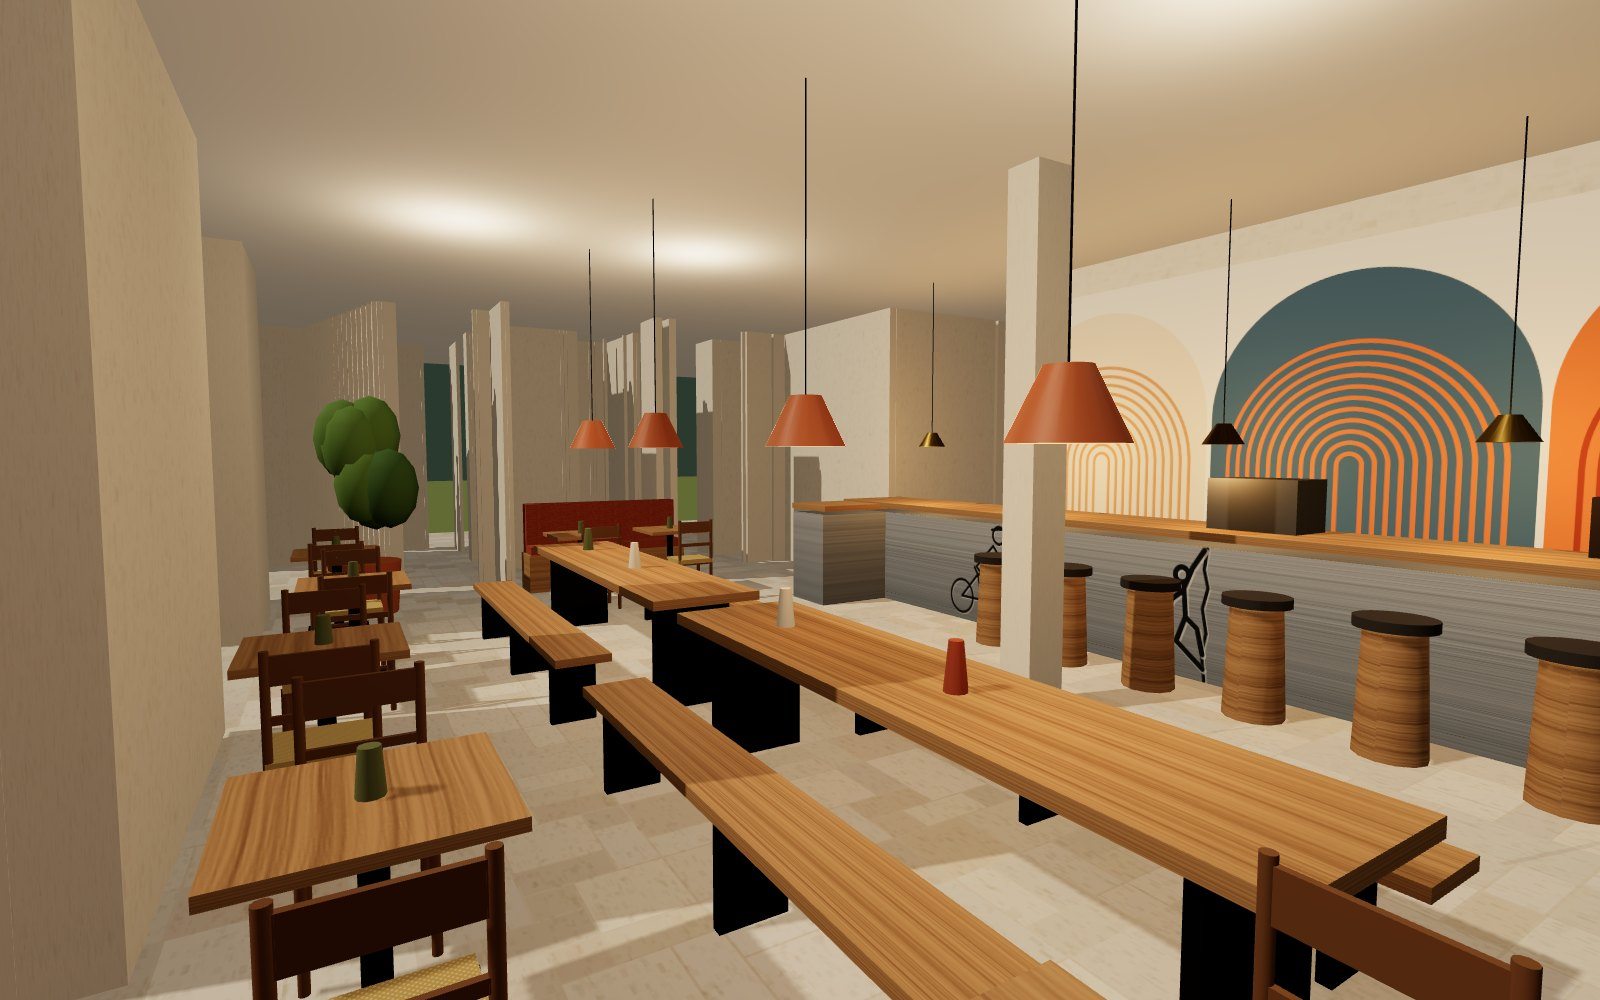
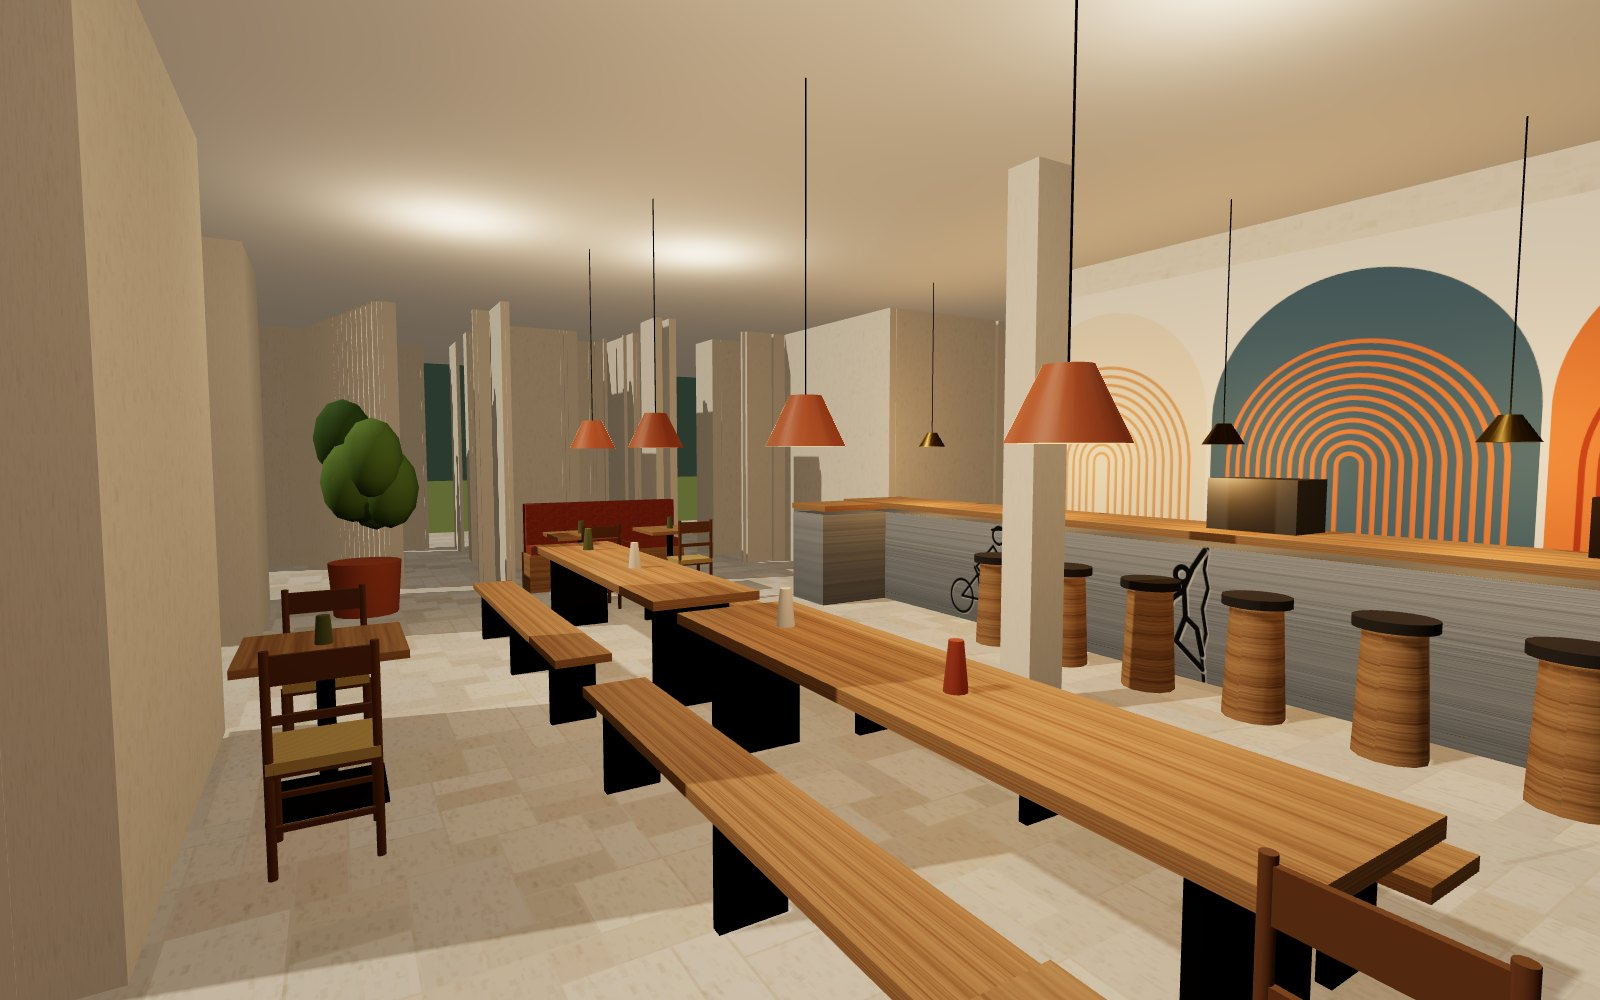
Sala: tolti i tavolini davanti ai passaggi verso la lounge, meno tavoli
Claude-Session: https://claude.ai/code/session_01QZXxqty357DcebAAL5Vpaf

Changed region(s): [[0.0938, 0.62, 0.5, 1.0], [0.1875, 0.403, 0.2812, 0.651]]

diff --git a/render-3d/sala-tavoli-misti/sorgente/pianoterra.js b/render-3d/sala-tavoli-misti/sorgente/pianoterra.js
@@ -385,7 +385,7 @@ else { box(P(210), P(1450), HS, HS + 0.06, P(840), P(1110), M('#e9e2d6', { trans
   const smallT = (px, pz, rotChairs) => { const x = P(px), z = P(pz); box(x - 0.35, x + 0.35, 0.72, 0.76, z - 0.35, z + 0.35, oakM); cyl(x, z, 0.04, 0, 0.72, ironM, 8); box(x - 0.25, x + 0.25, 0, 0.02, z - 0.25, z + 0.25, ironM);
     if (rotChairs) { straw(x - 0.6, z, Math.PI / 2, 0); straw(x + 0.6, z, -Math.PI / 2, 0); } else { straw(x, z - 0.6, 0, 0); }
     cyl(x, z, 0.04, 0.76, 0.9, M(tc[Math.floor(rnd() * 3)]), 10, 0.03); };
-  for (const [px, pz] of [[720, 780], [880, 772], [1040, 785], [1200, 775]]) smallT(px, pz, true);
+  for (const [px, pz] of [[1040, 785]]) smallT(px, pz, true);  // only one: the two openings to the lounge stay free
   // banquette along the east wall with two little tables
   const bq = boucle('#7f8f4e'); box(P(1388), P(1424), 0, 0.45, P(690), P(820), oakM); box(P(1390), P(1424), 0.45, 0.55, P(692), P(818), bq); box(P(1410), P(1424), 0.55, 1.05, P(692), P(818), bq);
   smallT(1340, 720, false); smallT(1340, 790, false);
@@ -408,7 +408,7 @@ const sun = new THREE.DirectionalLight('#fff0d8', AERIAL ? 2.4 : 1.4); sun.posit
 sun.castShadow = true; sun.shadow.mapSize.set(4096, 4096); Object.assign(sun.shadow.camera, { left: -16, right: 16, top: 16, bottom: -16, near: 1, far: 60 }); sun.shadow.bias = -0.0005; scene.add(sun);
 if (!AERIAL) for (const [x, z] of [[11, 7], [16, 7], [11, 9], [16, 9]]) { const l = new THREE.PointLight('#ffe2b8', 1.6, 0, 2); l.position.set(x, 3.0, z); scene.add(l); }
 scene.background = new THREE.Color('#2b3a2f');
-const CAMS = { panche: [[17.0, 1.6, 8.8], [11.5, 0.6, 7.0], 64], uscita: [[11.0, 1.7, 5.4], [18.2, 1.2, 7.2], 64], sala2: [[11.6, 1.75, 5.0], [15.5, 0.9, 9.8], 68], salatop: [[13.0, 11.5, 11.5], [12.8, 0, 6.8], 48], alto: [[9.3, 27, 17.5], [9.3, 0, 7.4], 42], bar: [[14.2, 1.6, 9.6], [14.2, 1.4, 3.6], 68], sala: [[17.6, 1.7, 9.9], [9.5, 1.1, 5.0], 66], portico: [[3.6, 1.6, 13.6], [14, 0.9, 12.6], 64] };
+const CAMS = { verso: [[11.5, 1.7, 5.2], [11.0, 1.0, 12.5], 70], sala2: [[11.6, 1.75, 5.0], [15.5, 0.9, 9.8], 68], salatop: [[13.0, 11.5, 11.5], [12.8, 0, 6.8], 48], alto: [[9.3, 27, 17.5], [9.3, 0, 7.4], 42], bar: [[14.2, 1.6, 9.6], [14.2, 1.4, 3.6], 68], sala: [[17.6, 1.7, 9.9], [9.5, 1.1, 5.0], 66], portico: [[3.6, 1.6, 13.6], [14, 0.9, 12.6], 64] };
 const k = CAMS[VIEW] || CAMS.alto;
 const camera = new THREE.PerspectiveCamera(k[2], W / H, 0.05, 200); camera.position.set(...k[0]); camera.lookAt(...k[1]);
 renderer.render(scene, camera);
